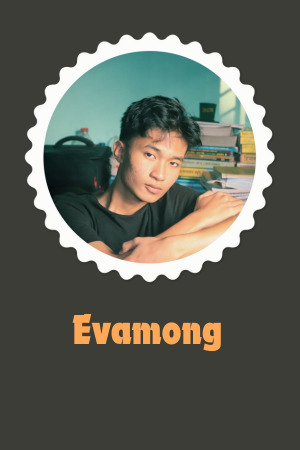
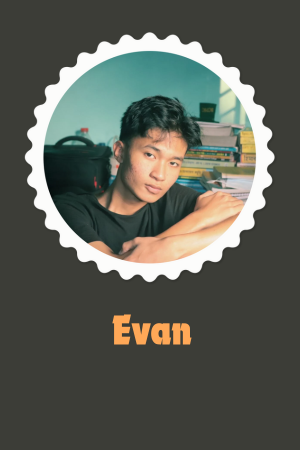
final

Changed region(s): [[0.24, 0.6844, 0.75, 0.7778]]

diff --git a/src/components/Sobay.js b/src/components/Sobay.js
@@ -50,12 +50,11 @@ export default function Main() {
       <Members
         firstPerson={nupaing}
         Ftitle="Nupaing"
-        Fsubtitle="The divine Beauty"
-        Finfo="Has a great charismatic aura and alluring beauty. The one who is admired by everyone and called wife material . A bit goofy good at responsibilities and good at working with her true strength."
+        Fsubtitle="The divine Beauty . Has a great charismatic aura and alluring beauty. The one who is admired by everyone and called wife material . A bit goofy but good at her responsibilities and good at working with her true strength."
         secondPerson={mumu}
         Stitle="Mumu"
         Ssubtitle="The best girl"
-        Sinfo="An rational thinker. Always in the side of the rights. Has least appearance in group activities but always brings good energy. The least problematic   & has an appealing character."
+        Sinfo="An rational thinker. Always in the side of the rights. Has least appearance in group activities but always brings good energy. The least problematic & has an appealing character."
         thirdPerson={priyanka}
         Ttitle="Priyanka"
         Tsubtitle="The chronicle online user"
@@ -63,17 +62,17 @@ export default function Main() {
         fourthPerson={mongsain}
         Fftitle="Mong Sain"
         Ffsubtitle="The funniest"
-        Ffinfo="Definition  of Comical personality. The liar. A creative Thinker but lacks responsibilities. Very goofy and fragile but has a great harmony  and is adored by everyone for his uniqueness"
+        Ffinfo="Definition  of Comical personality. Great at faking truths. Good at Gossiping. A creative Thinker but lacks responsibilities. Very goofy and fragile but has a great harmony  and is adored by everyone for his uniqueness."
       />
       <Members
         firstPerson={me}
         Ftitle="Supriyo"
-        Fsubtitle="A dependable Person"
-        Finfo="A Prince with a golden spoon. That one friend who is every Parents Favourite . Quirky personality with good sense of humour. Good observer , good at responsibilities and a faithful character."
+        Fsubtitle="A Faithful character"
+        Finfo="A dependable person, a prince with a golden spoon. That one friend who is every Parents Favourite . Quirky personality with a good sense of humour. Good observer and good at responsibilities"
         secondPerson={aongkon}
         Stitle="Aongkon"
         Ssubtitle="Crime Partner"
-        Sinfo="That one supportive Character behind every friend who is the best to be around them . The best friend of all friends."
+        Sinfo="That one supportive ,sassy & fragile Character behind every friend who is the best to be around them also don't think twice before blabbering. The best friend of all friends."
         thirdPerson={debongshi}
         Ttitle="Debongshi"
         Tsubtitle="The OG introvert of introverts"
@@ -81,7 +80,7 @@ export default function Main() {
         fourthPerson={jojo}
         Fftitle="Jojo"
         Ffsubtitle="The teller of Lies"
-        Ffinfo="Good at fake promises and good at excuses. The loner but lives the best of his life. The real tank/supporter of the group. Very Witty and has a good judgement."
+        Ffinfo="The teller of Lies. Good at faking promises and coming up with good excuses. The loner but lives the best of his life. Very Witty and has a good judgement."
       />
       <Members
         firstPerson={emong}
@@ -90,8 +89,8 @@ export default function Main() {
         Finfo="Efficient & sufficient about his works & resources , gives the best version of himself . A true All-Rounder."
         secondPerson={evan}
         Stitle="Evan"
-        Ssubtitle="Vending machine"
-        Sinfo="A good listener who is supportive yet often patronizing. He tends to be self-absorbed and constantly argues with others over various issues, even when he’s wrong. He avoids making judgments and consistently advocates for what he believes is best for everyone."
+        Ssubtitle="The Musician"
+        Sinfo="A vocalist with wide range of musical knowledge a creative thinker and a rational observer also sometimes a debater. A person who always has a plan and leads with well-thoughts."
         thirdPerson={pyaw}
         Ttitle="Pyaw"
         Tsubtitle="The Happiness"
@@ -99,7 +98,7 @@ export default function Main() {
         fourthPerson={ukay}
         Fftitle="Ukay"
         Ffsubtitle="The follower & The messiest"
-        Ffinfo="Has a good initiative drive and good calm personality . Likes to brag about silly things. The one who takes inspo from every thing is surrounded by him but outshines everyone."
+        Ffinfo="The follower & The messiest. Has a good initiative drive and calm personality . Very patient about his work & Smooth Talker. likes to brag about silly things."
       />
     </section>
   );

diff --git a/src/components/Mom.js b/src/components/Mom.js
@@ -19,14 +19,13 @@ export default function Mom() {
             <div className="flip-card-back">
               <div className="information">
                 <h2 className="card-title">Kristy</h2>
-                <p className="card-sub-title">Mom</p>
+                <p className="card-sub-title">The Mother</p>
                 <p className="card-info">
-                  Unfortunately, became a mother <br />
-                  to 16 children without a father. Isn't it concerning? <br />
-                  However, all of the children are now searching for their
-                  father. <br />
-                  Hope we find our dad <br />
-                  someday.
+                  That one popular friend in the group. Very ambitious, very
+                  passionate and a hard worker. Has natural leadership energy
+                  <br />
+                  but goes crazy in the house party. A great advisor and a
+                  respectful person.
                 </p>
                 <button className="btn">
                   <a

diff --git a/src/components/Members.js b/src/components/Members.js
@@ -67,9 +67,7 @@ export default function Members(props) {
                   <h2 className="card-title">{props.Ttitle}</h2>
                   <p className="card-sub-title">{props.Tsubtitle}</p>
                   <p className="card-info">{props.Tinfo}</p>
-                  <button className="btn">
-                    <button className="btn">Learn more</button>
-                  </button>
+                  <button className="btn">Learn more</button>
                 </div>
               </div>
             </div>
@@ -92,9 +90,7 @@ export default function Members(props) {
                   <h2 className="card-title">{props.Fftitle}</h2>
                   <p className="card-sub-title">{props.Ffsubtitle}</p>
                   <p className="card-info">{props.Ffinfo}</p>
-                  <button className="btn">
-                    <button className="btn">Learn more</button>
-                  </button>
+                  <button className="btn">Learn more</button>
                 </div>
               </div>
             </div>
